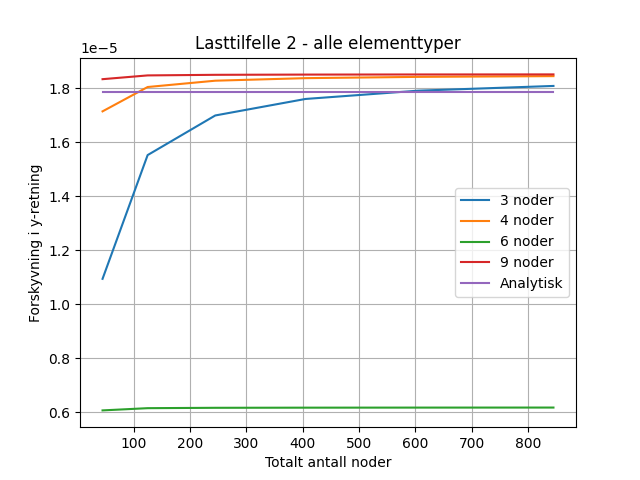
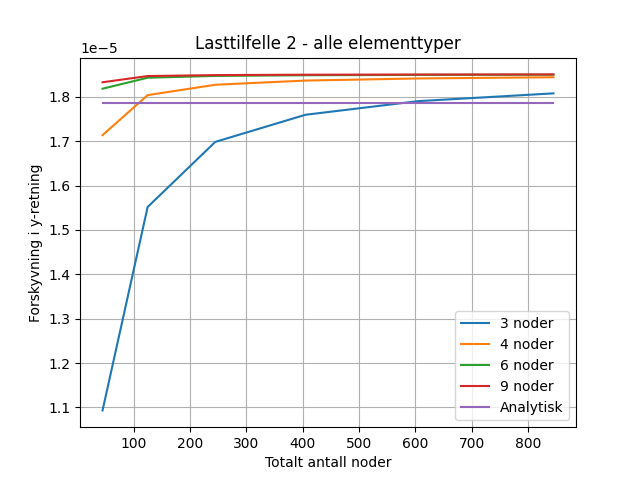
results with updated 6node

diff --git a/Project_start_with_TODO/element_comparison.py b/Project_start_with_TODO/element_comparison.py
@@ -141,8 +141,8 @@ def iterate_numnodes(elementNodes):
 
 
 # plot for 3,4,6,9 node elements
-numNodes_tot, node3_yc = iterate_numnodes(3)
-numNodes_tot, node4_yc = iterate_numnodes(4)
+#numNodes_tot, node3_yc = iterate_numnodes(3)
+#numNodes_tot, node4_yc = iterate_numnodes(4)
 numNodes_tot, node6_yc = iterate_numnodes(6)
 numNodes_tot, node9_yc = iterate_numnodes(9)
 
@@ -153,10 +153,10 @@ totNodes = [5*n*n for n in numNodes_tot]
 calc_ans = np.ones(len(totNodes))*ans2
 
 plt.figure()
-plt.title('Lasttilfelle 2 - 4 vs 9 noders elementtyper')
+plt.title('Lasttilfelle 2 - 6 vs 9 node elementtyper')
 #plt.plot(totNodes, node3_yc, label='3 noder')
-plt.plot(totNodes, node4_yc, label='4 noder')
-#plt.plot(totNodes, node6_yc, label='6 noder')
+#plt.plot(totNodes, node4_yc, label='4 noder')
+plt.plot(totNodes, node6_yc, label='6 noder')
 plt.plot(totNodes, node9_yc, label='9 noder')
 #plt.plot(totNodes, calc_ans, label='Analytisk')
 plt.xlabel('Totalt antall noder')
